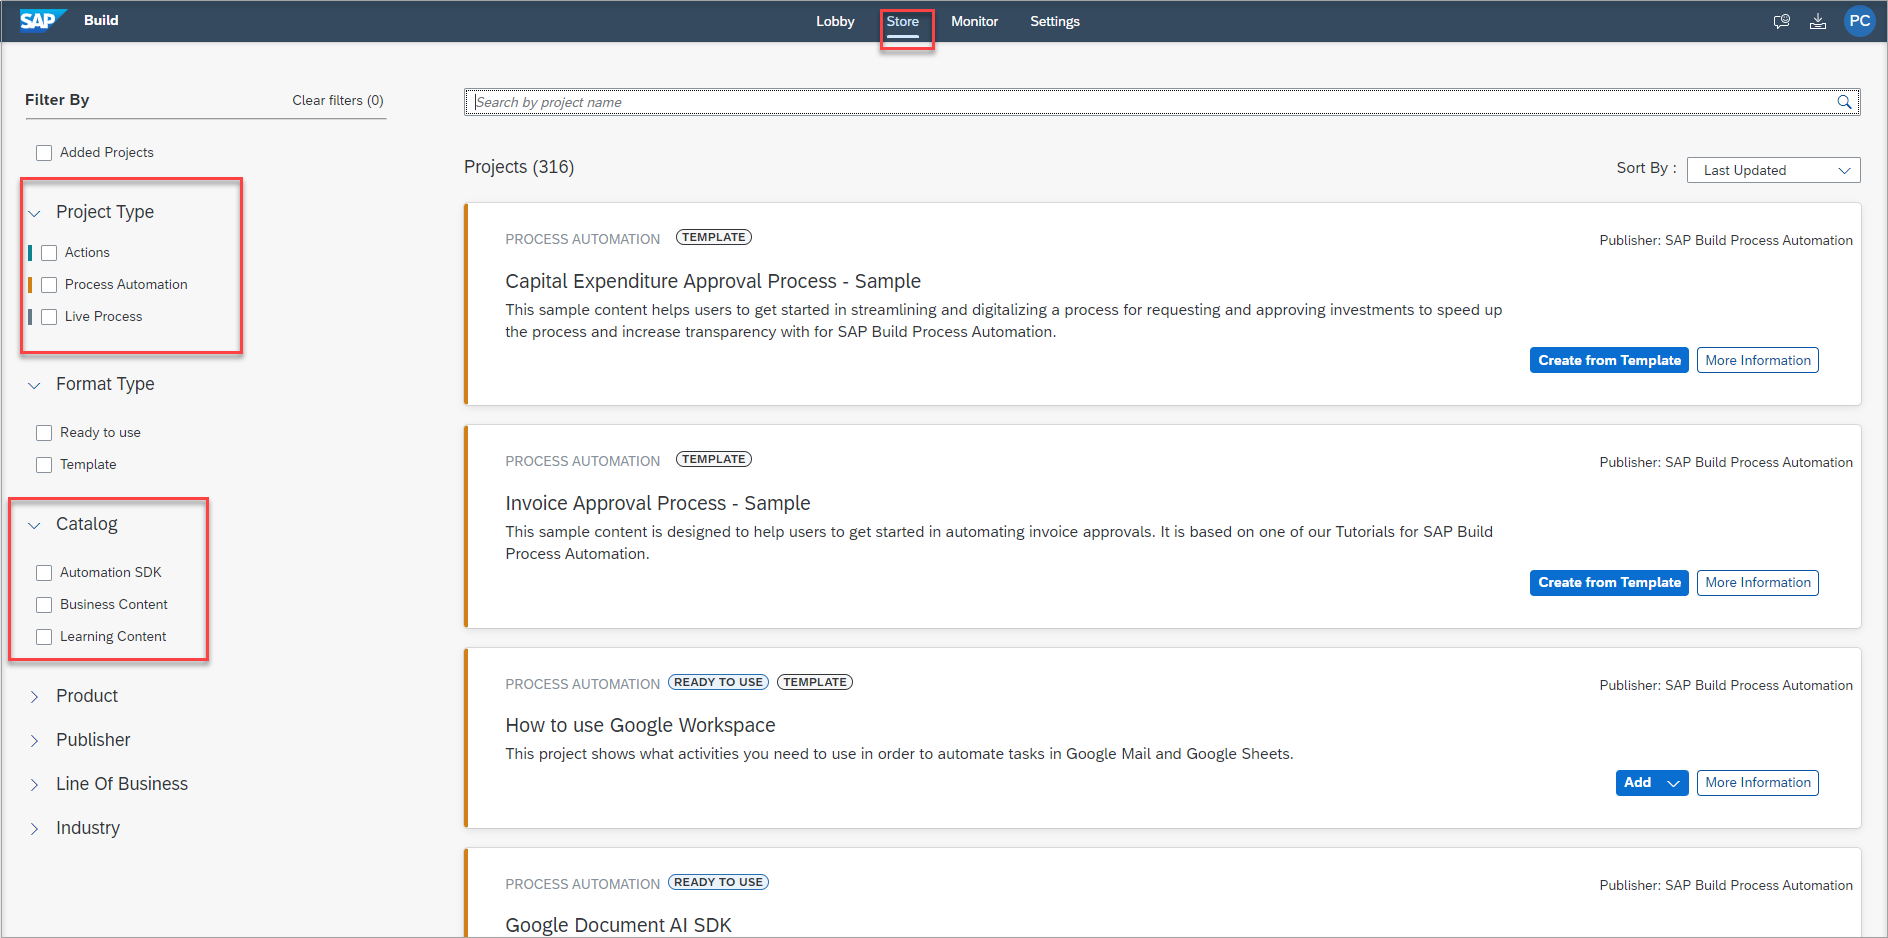
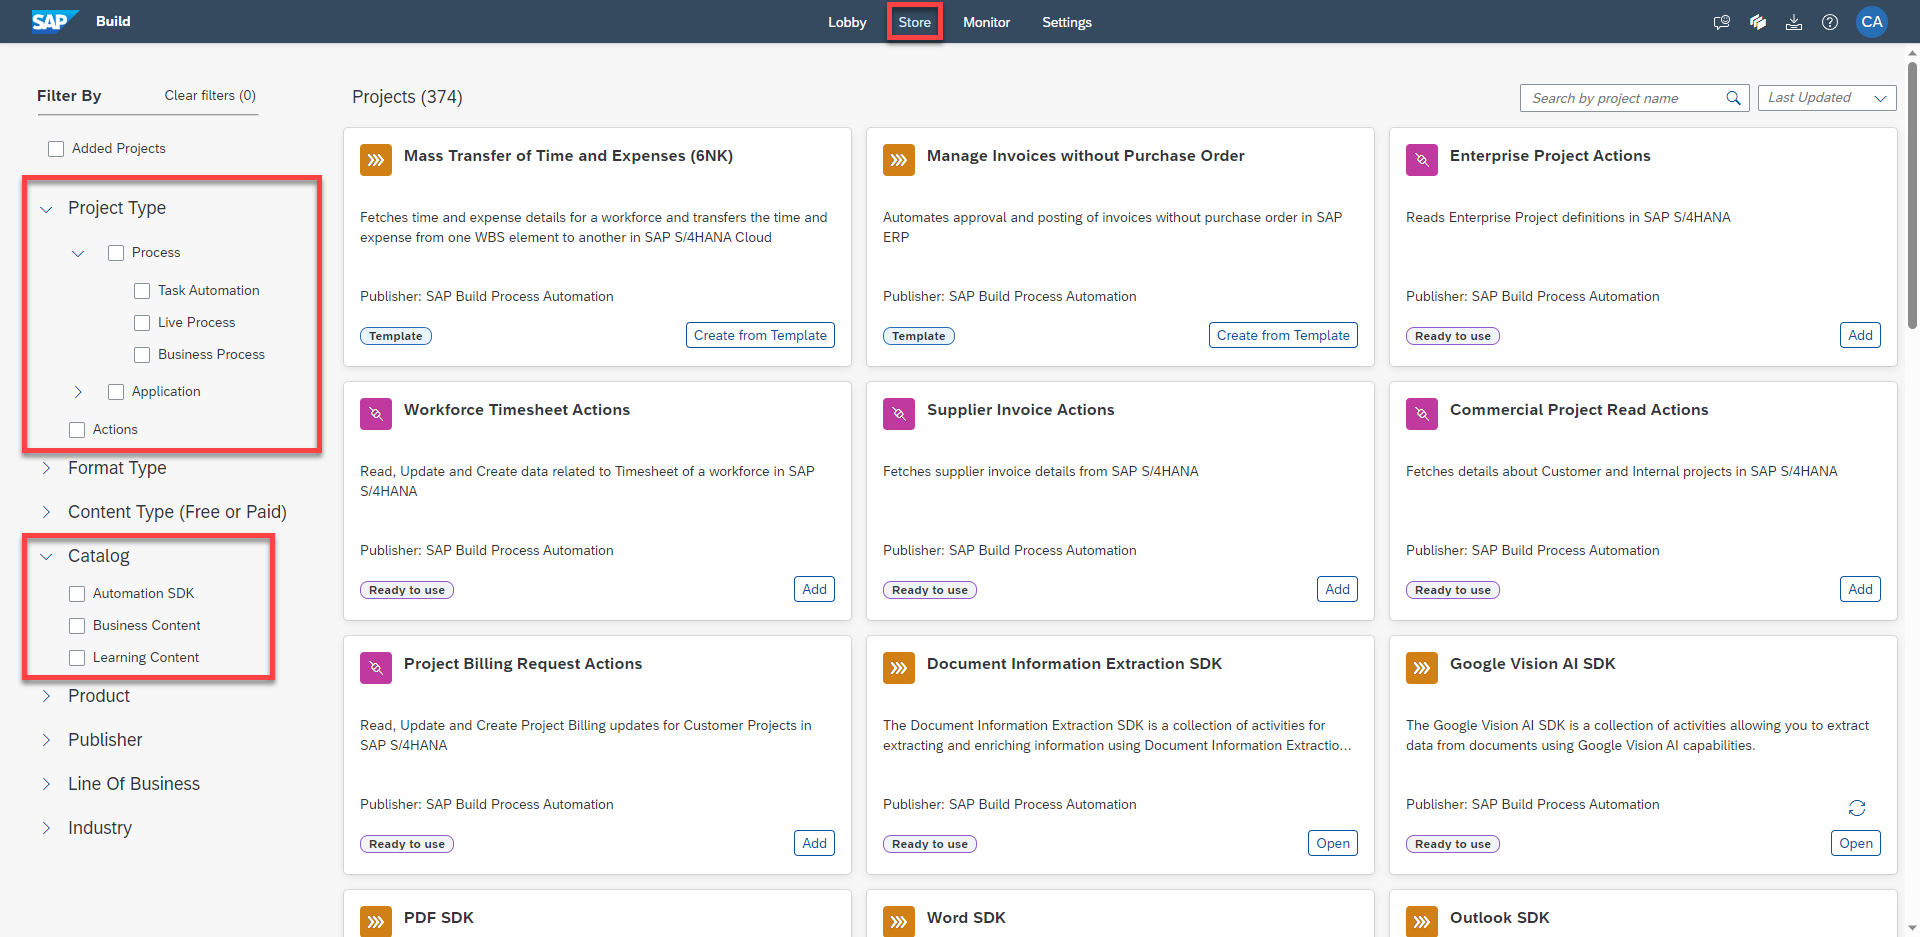
to prod

diff --git a/tutorials/spa-acquire-businessprocess-store/spa-acquire-businessprocess-store.md b/tutorials/spa-acquire-businessprocess-store/spa-acquire-businessprocess-store.md
@@ -25,10 +25,10 @@ primary_tag: software-product>sap-build-process-automation
 
 The store is available for everyone and can be accessed directly from the home page. The store offers pre-built content created and curated by SAP, which can be used free of charge with SAP Build Process Automation.
 
-Packages are categorized by catalog, which let you choose between Business Content, Learning Content and Automation SDK. It also offers a variety of filters, a search feature, and content descriptions to help users find what they are looking for quickly.
+Packages are categorized by catalog, which let you choose between Automation SDK, Business Content and Learning Content. It also offers a variety of filters, a search feature, and content descriptions to help users find what they are looking for quickly.
 
 1. Navigate to the store in your SAP Build Process Automation tenant.
-
+   
     &nbsp;
 
     > **Learning Content** offers learning packages to get started with the Application Development tool. These packages allow you to learn best practices by reusing the most common flows to design your first projects.
@@ -39,14 +39,14 @@ Packages are categorized by catalog, which let you choose between Business Conte
 
     <!-- border -->![Navigate Store](1.Store.png)
 
-    You can select one or more filters on the left to filter the available store projects by Project Type (for example Live Process and Process Automation), Format Type (for example, Ready to use and Template), Catalog (for example, Business Content), Product (for example, SAP S/4HANA Cloud), Publisher, Line of Business, and Industry.
+    You can select one or more filters on the left to filter the available store projects by Project Type (for example Live Process and Business Process), Format Type (for example, Ready to use and Template), Catalog (for example, Business Content), Product (for example, SAP S/4HANA Cloud), Publisher, Line of Business, and Industry.
 
 
 ### Import sales order approvals business process
 
-You will import the business process titled **Sales Order Approvals - Sample**.
+You will import the business process titled **Sales Order Approvals**.
 
-1. Set the following parameters: under **Catalog**, check **Learning Content** and type **Sales Order Approvals - Sample**  in the search bar and hit **Enter**.
+1. Set the following parameters: under **Project Type**, select **Process** > **Business Process** and under **Catalog**, select **Learning Content** and type **Sales Order Approvals**  in the search bar and hit **Enter**.
 
     > This sample content is designed to help users to get started in streamlining and digitalizing the processing of approvals for sales orders and can be managed and customized directly by the departments depending on their needs.
 
@@ -54,12 +54,13 @@ You will import the business process titled **Sales Order Approvals - Sample**.
 
 2. To add the package,  select **Create from Template**.
 
-    Name the project **Sales Order Approvals Dev Tutorial** and choose **Create**.
-
     <!-- border -->![Create Project](3.Createfromtemplate.png)
+   
+3. Name the project **Sales Order Approvals Dev Tutorial** and choose **Create**.
 
+    <!-- border -->![Create Project](3a.png)
 
-3. Once the project is imported successfully, to see the newly created project, navigate back to the **Lobby** from the top menu.
+4. Once the project is imported successfully, to see the newly created project, navigate back to the **Lobby** from the top menu.
 
     <!-- border -->![Lobby](4.Lobby.png)
 
